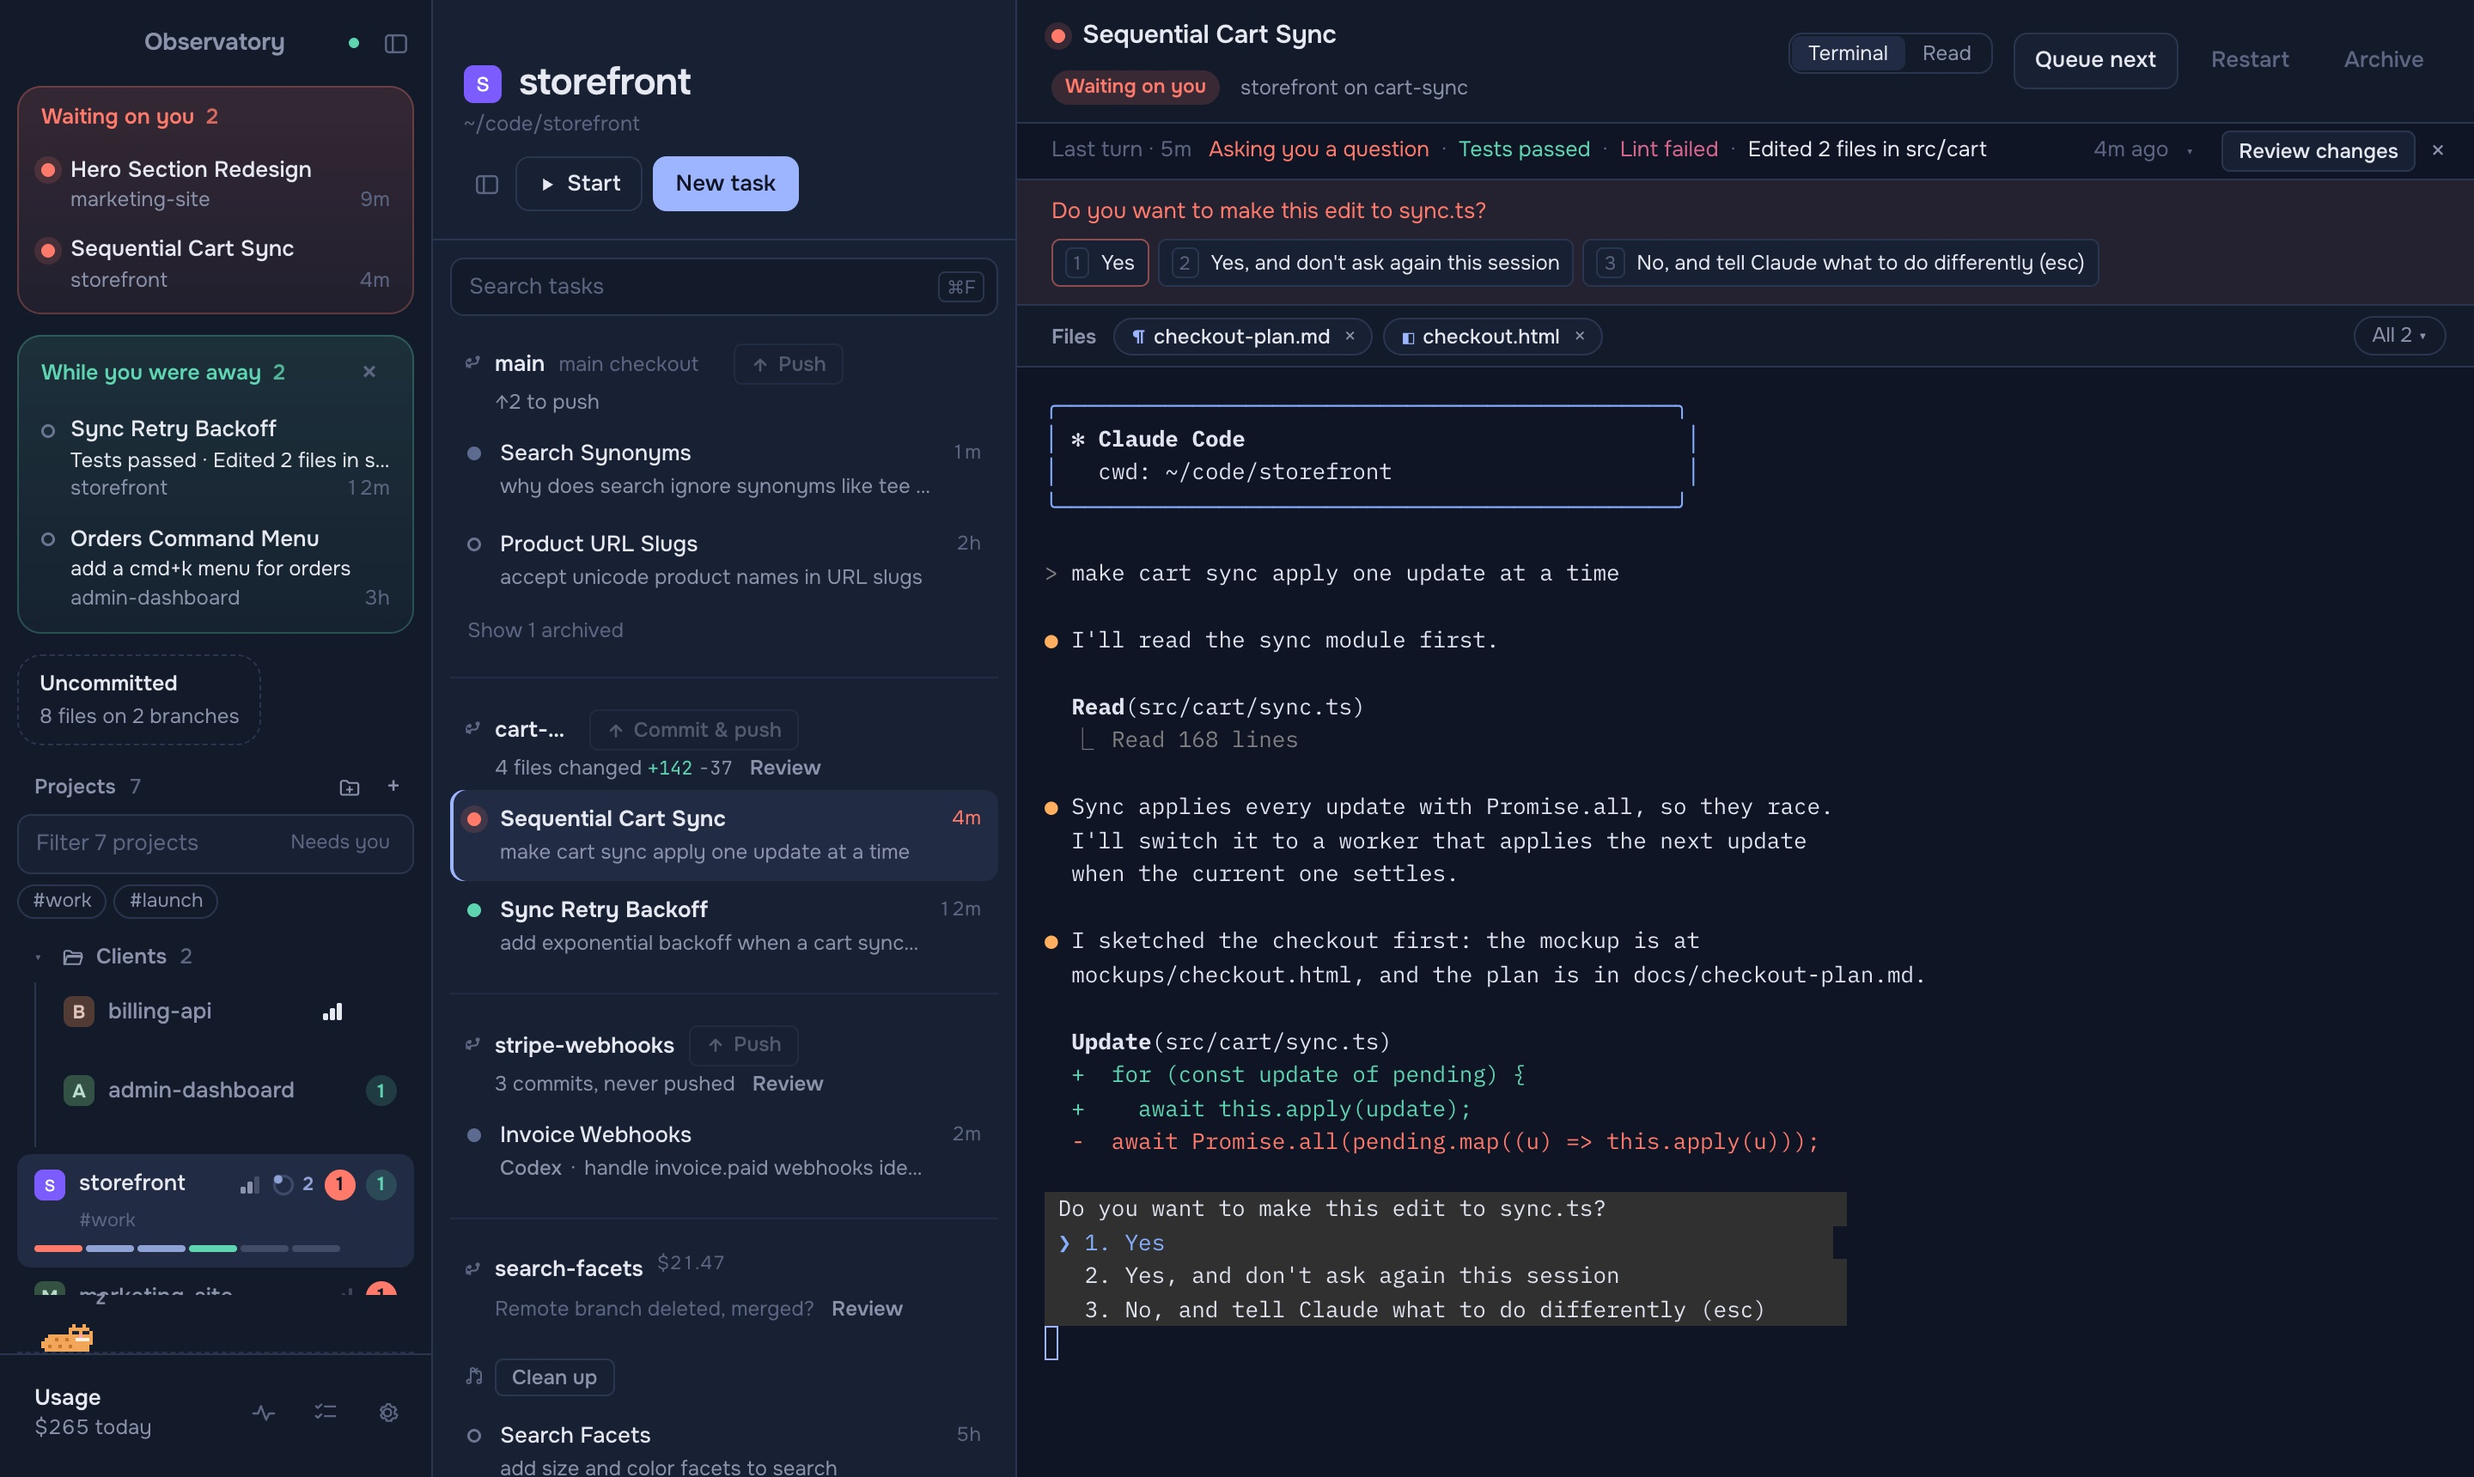
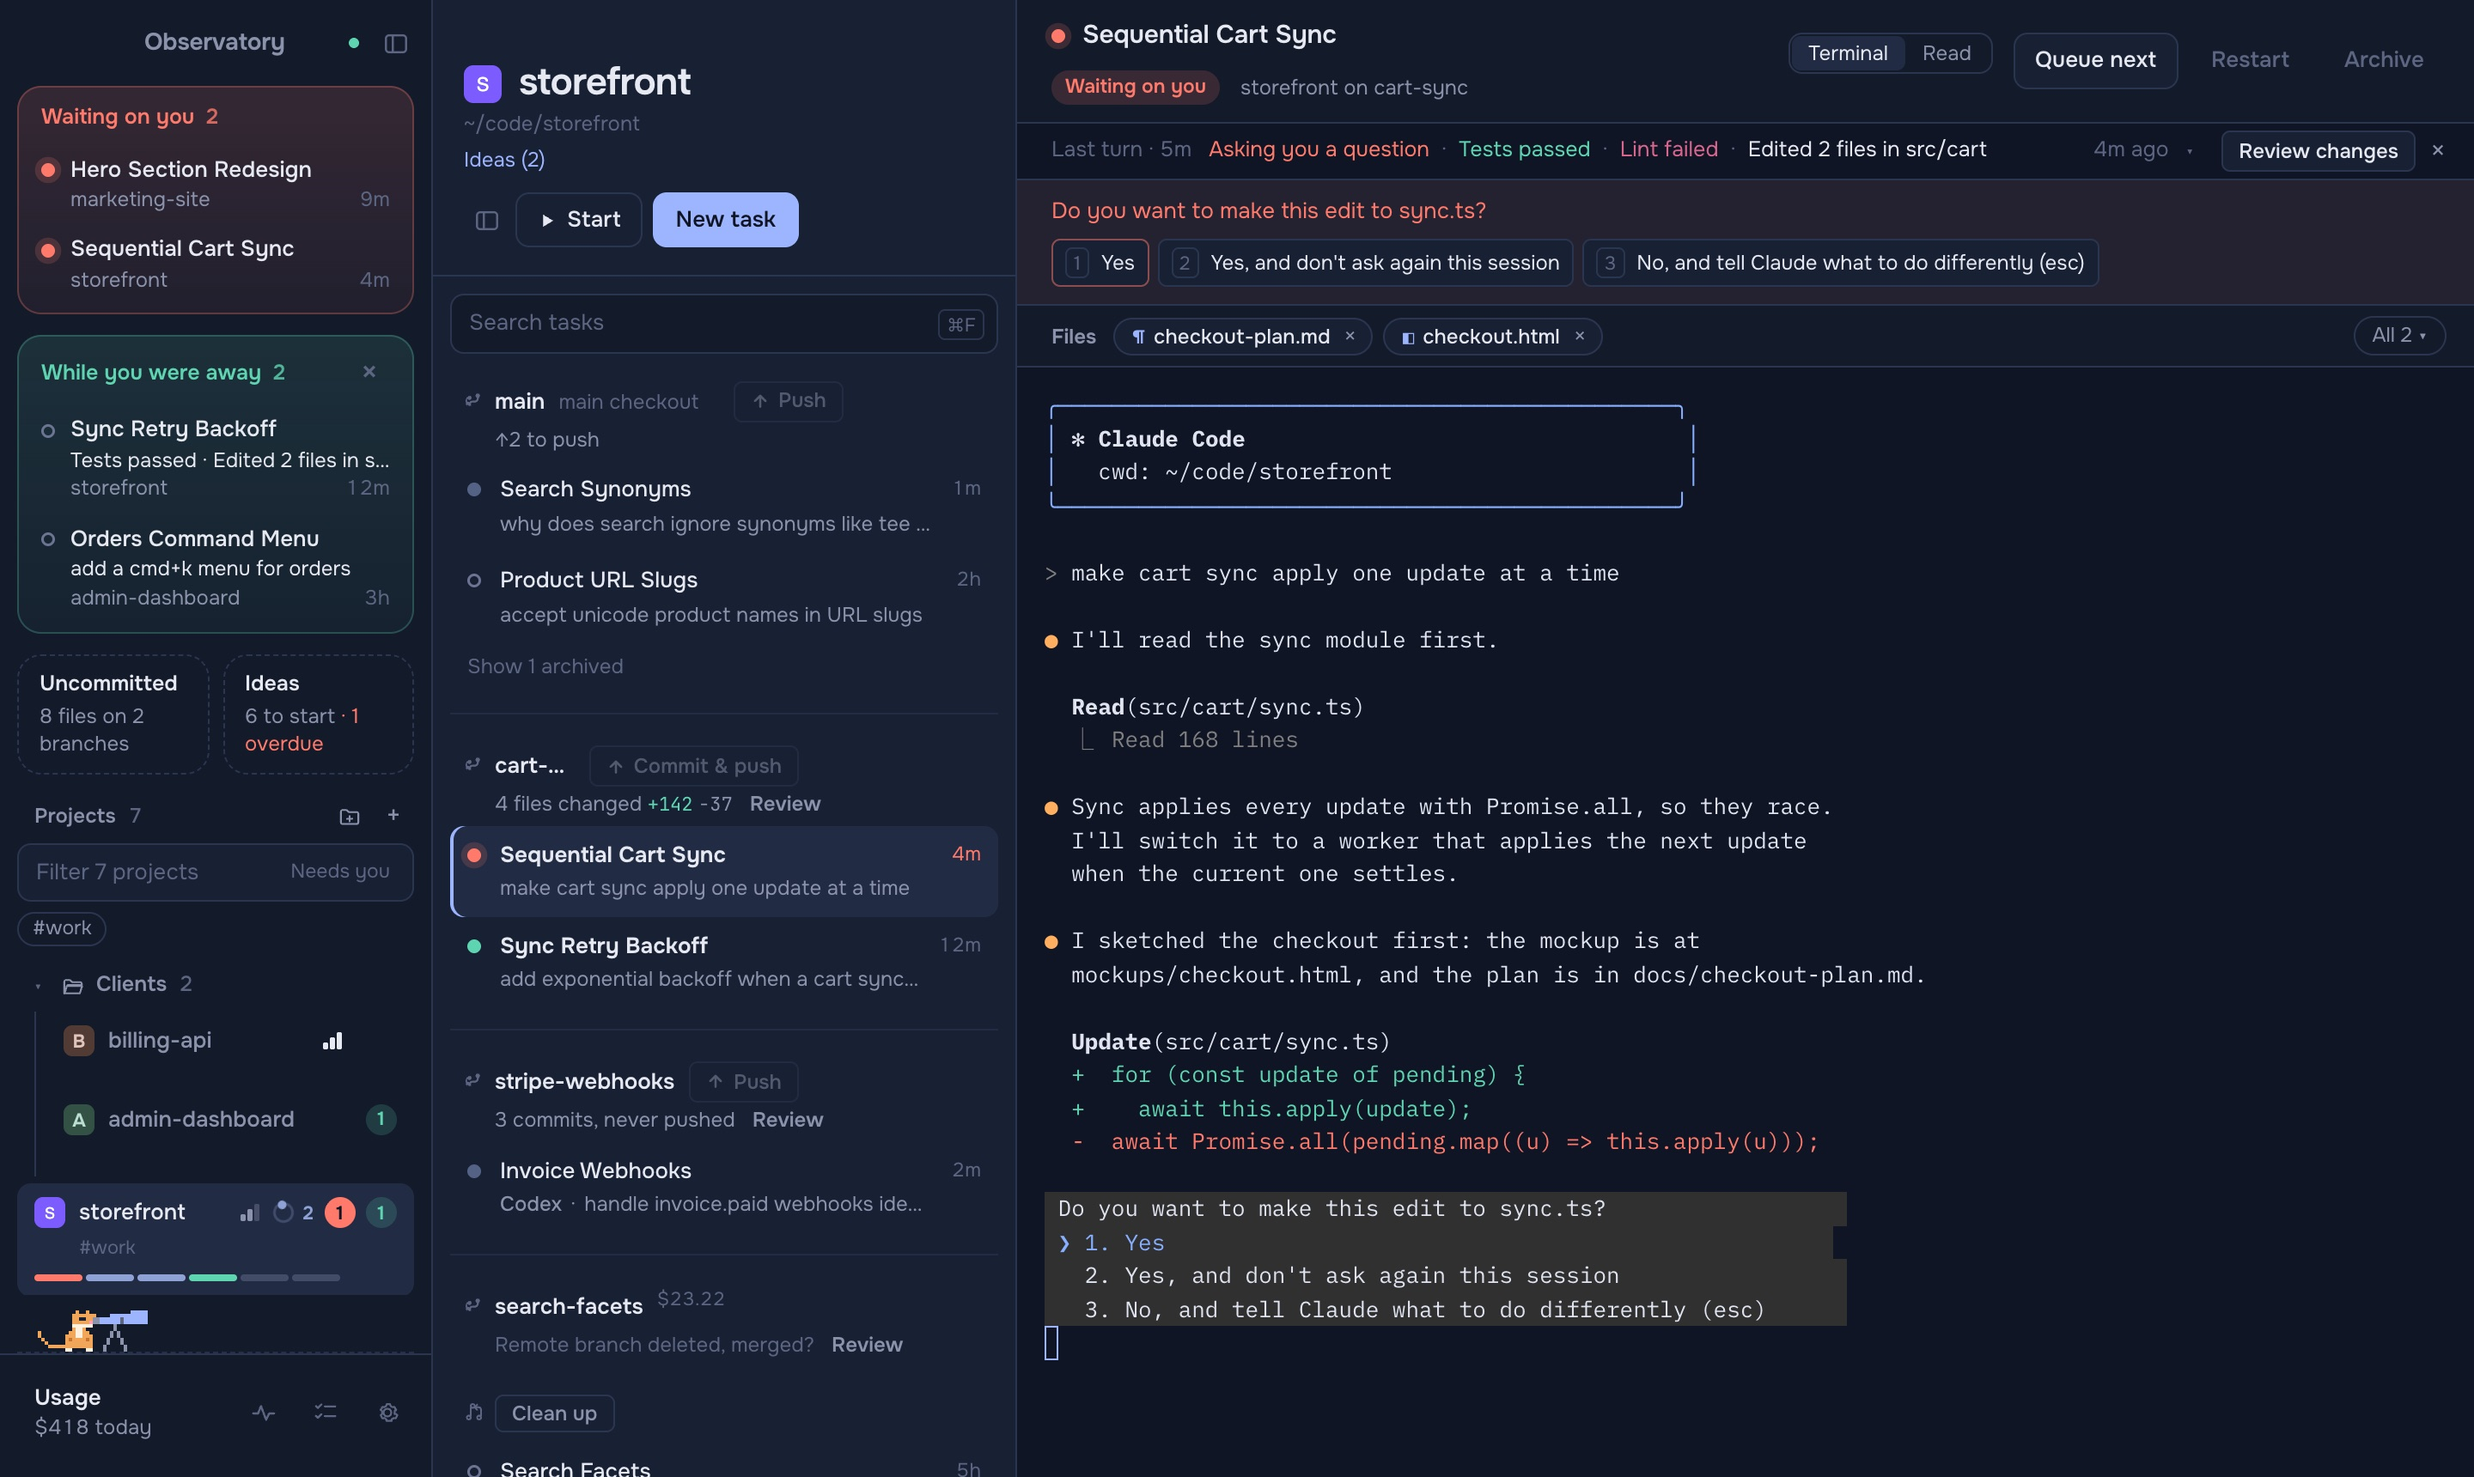
Say what's new in 0.6.1 on its release page: Ideas, and moving a thread to another project

diff --git a/docs/release/whats-new.md b/docs/release/whats-new.md
@@ -10,74 +10,21 @@
   underneath on its own.
 -->
 
-### See what's running in your projects
+### Keep ideas for later, without starting them
 
-Activity (⌥⌘U, or the pulse button in the sidebar's footer) shows every process running in your projects: what it is, its CPU and memory, how long it's been going, and the ports it serves, as links. Each project is one row with a bar for its share and a line of its recent CPU; open it to see its processes. Ones nothing started, like a dev server or a test browser an agent left behind, are marked "left running", and you can stop them from here. A project using a lot gets a small meter in the sidebar.
+Ideas is a list of things you want to do but not right now, so they stop piling up in one project. Write one down in a second, from anywhere:
 
-<img src="docs/release/activity.jpg" width="880" alt="The Activity view: billing-api at 110% CPU with two processes left running, storefront serving :5173, marketing-site opened to its node and claude processes">
+- quick capture's **Save it as an idea**;
+- **Save for later** in a thread's Follow up box, filed under that thread's project;
+- **Not now** on an item in Dispatch's plan;
+- the top line of the Ideas view.
 
-### Folders, names and tags for your projects
+Each idea gets a project (or stays Unsorted), tags, a priority and a deadline. Open the view with ⌘I or the Ideas card in the sidebar: it groups ideas by project, sorts them by priority or deadline, and flags what's overdue or due soon. **Start** opens a new task with the idea already written in, and you can send several to Dispatch at once.
 
-<img src="docs/release/folders.jpg" width="252" align="right" alt="The sidebar's projects: a Clients folder holding billing-api and admin-dashboard, storefront tagged #work, and tag chips above the list">
+<img src="docs/release/ideas.jpg" width="880" alt="The Ideas view: Unsorted ideas first, then storefront's, one a day late and one due tomorrow, then marketing-site's, each with its priority and tags">
 
-Put projects in folders, from a project's right-click menu or the New folder button beside Projects. A folder folds away and still shows what inside needs you. Give a project a name of your own, shown everywhere in Observatory, and tags. Tag chips above the list filter by one, and the filter box finds a project by its name, its real name, its folder or a tag.
+### Move a thread to the project it belongs in
 
-<br clear="right">
+**Move to project…** on a thread's right-click menu starts a new thread in the project you pick, with a brief of the old one: what was asked, its last words and the files it changed. You can edit the brief before it starts. The old thread is archived, unless you choose to keep it.
 
-### Answer a session without hunting for its terminal
-
-When a session asks permission, its choices sit above the terminal as buttons. Click one and it's answered.
-
-<img src="docs/release/answer.jpg" width="880" alt="A session waiting on an edit, with Yes, Yes and don't ask again, and No as buttons above its terminal">
-
-### See what a turn did at a glance
-
-Each Claude and Codex thread has one line above its terminal: whether the tests passed, which files it edited, whether it committed. Click it to see what you asked, every file it changed, and the agent's last words. It's built from what the agent actually ran, not from what it says it did.
-
-<img src="docs/release/turn.jpg" width="880" alt="A finished turn's line opened: the prompt, the two files it changed, and Claude's last words">
-
-### Read a session as a conversation
-
-Switch a thread from **Terminal** to **Read**. You get the replies as text, each run of tool calls folded into one line, and a reply box at the bottom.
-
-<img src="docs/release/reader.jpg" width="880" alt="A session in the reader: the prompt, Claude's replies with a code block, and folded tool calls">
-
-### Come back to what finished
-
-<img src="docs/release/away.jpg" width="255" align="right" alt="The sidebar: two sessions waiting on you, and two that finished while you were away">
-
-Step away for ten minutes or more, and the sidebar lists what finished while you were gone, each with a line on what it did. Whatever is waiting on you stays above it, and notifications now say what a session is asking, or what its turn did.
-
-Working agents stay quiet in the sidebar, so the ones that need you stand out.
-
-<br clear="right">
-
-### A terminal font you'll want to read
-
-Pick from eleven fonts in Settings → Appearance, each shown with the same session text, at your size and spacing. They come with the app, so they look the same on every Mac. IBM Plex Mono is the new default, and ⌘+ and ⌘− resize the text.
-
-<img src="docs/release/fonts.jpg" width="880" alt="The font picker in Settings, with IBM Plex Mono, JetBrains Mono, SF Mono, Menlo and others side by side">
-
-### Every file a task showed you
-
-The Files row above a thread's terminal has an All list: each file it showed, with its folder and when, the files other sessions on the branch showed, and the ones its last turn changed. Open one here, in your editor or in Finder, or copy its path.
-
-<img src="docs/release/files.jpg" width="880" alt="The Files list open over a terminal: two files shown in this session and two changed in the last turn">
-
-### Dispatch your to-do list
-
-Press ⇧⌘N and paste a to-do list. Observatory proposes which project each item goes to. You edit the plan, then it starts the agents a few at a time and tracks them on one board.
-
-### Also new
-
-- The sidebar scrolls as one, so long lists never push your projects out of reach; "While you were away" and "Follow up" show three tasks, then Show all.
-- Hiding the sidebar (⌘B) or a project's tasks (⌥⌘B) slides them away.
-- Hover anything in the sidebar to see what it is.
-- The summary above a terminal can be hidden, and Summary in the header brings it back.
-- The sidebar cat stargazes through a telescope, catches falling stars, grooms and stretches.
-- **Merge** a pull request whose checks pass, right from its branch, then clean up the checkout in the next step.
-- Uncommitted work is listed under the thread that left it.
-- **Review changes** on a finished turn, and your comments go back to that thread.
-- Web addresses in a terminal open with a click.
-- An agent can hand a task to another project with an `observatory://` link.
-- A newer nebula that still speaks this version's protocol is fine: Observatory offers to start it instead of asking you to update.
+<img src="docs/release/move.jpg" width="640" alt="Moving Sync Retry Backoff from storefront to marketing-site: the new task box with the brief written in, and a box to keep the old thread">
